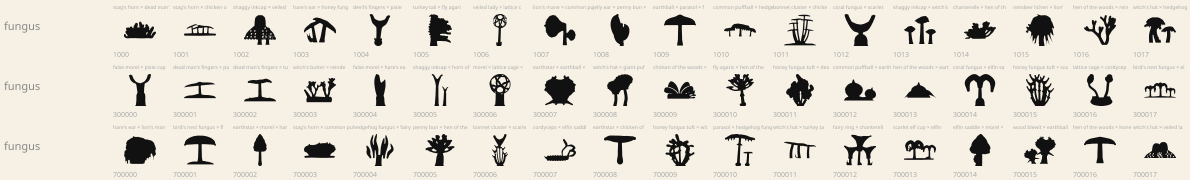
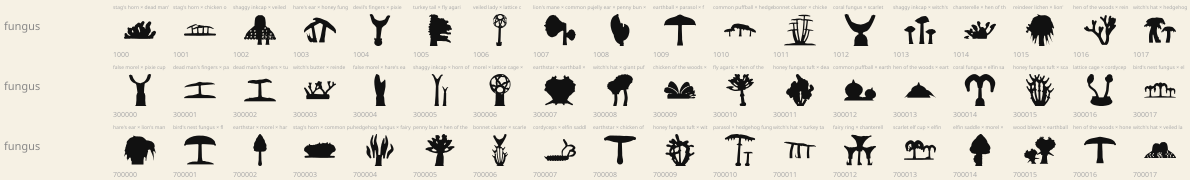
fungus: lite fruit bodies on chimera side seats (speed)

diff --git a/src/gen/tags/fungus.js b/src/gen/tags/fungus.js
@@ -784,7 +784,8 @@ heads.fungusFB = (C, sock, g) => {
       K.poly(tube(spline([p, lerp(p, e, 0.5), e], 5), profile([[0, ss * 0.36], [0.3, ss * 0.26], [1, ss * 0.22]])));
       return e;
     };
-    for (const q of fz.fbs) { const ss = q.s * fit(q.g.span); FB[hyb ? g.form : q.g.form](K, rng, stalk(q.p, q.ax, ss), q.ax, ss, hyb ? gh : q.g); }
+    const gl = hyb && fz.fbs.length > 1 ? { ...lite(g), ...(g.form === 'cage' ? { cells: 4 } : {}) } : gh; // many seats: the lighter fruit body keeps it fast and legible
+    for (const q of fz.fbs) { const ss = q.s * fit(q.g.span); FB[hyb ? g.form : q.g.form](K, rng, stalk(q.p, q.ax, ss), q.ax, ss, hyb ? gl : q.g); }
     if (fz.muteHead && !(hyb && !fz.fbs.length)) return { eyes: [], mounts: [{ p: sock.p, dir: sock.dir, flip: 1, s: s0 }], spots: [], isCap: true };
     const s1 = s0 * fit(fz.span0), r = FB[g.form](K, rng, stalk([sock.p[0], sock.p[1] + fz.dy], sock.dir, s1), sock.dir, s1, gh);
     const up = p => [p[0], p[1] - fz.dy];

diff --git a/docs/tags/fungus.md b/docs/tags/fungus.md
@@ -44,6 +44,8 @@ gills/frills, puffball tails and coral antlers read well. Default eyes: none.
   (puffballs, earthball) on tall troop stalks read as lollipop trees; earth tongue and hare's ear
   heads as flat blades; cordyceps chassis with a foreign head on the caterpillar is odd but cute;
   fly agaric's narrow neck above the ring looks nearly detached at print size (pre-existing).
+- Side seats of a chimera use `lite` fruit bodies (cages at 4 cells) to stay fast: worst case ~21 ms
+  (honey tuft x lattice cage), ~0.3% of seeds over 15 ms.
 - Sheet: `out/roads/07-fungus-chimeras.png` (3 seeds x 18, cell 60).
 
 
